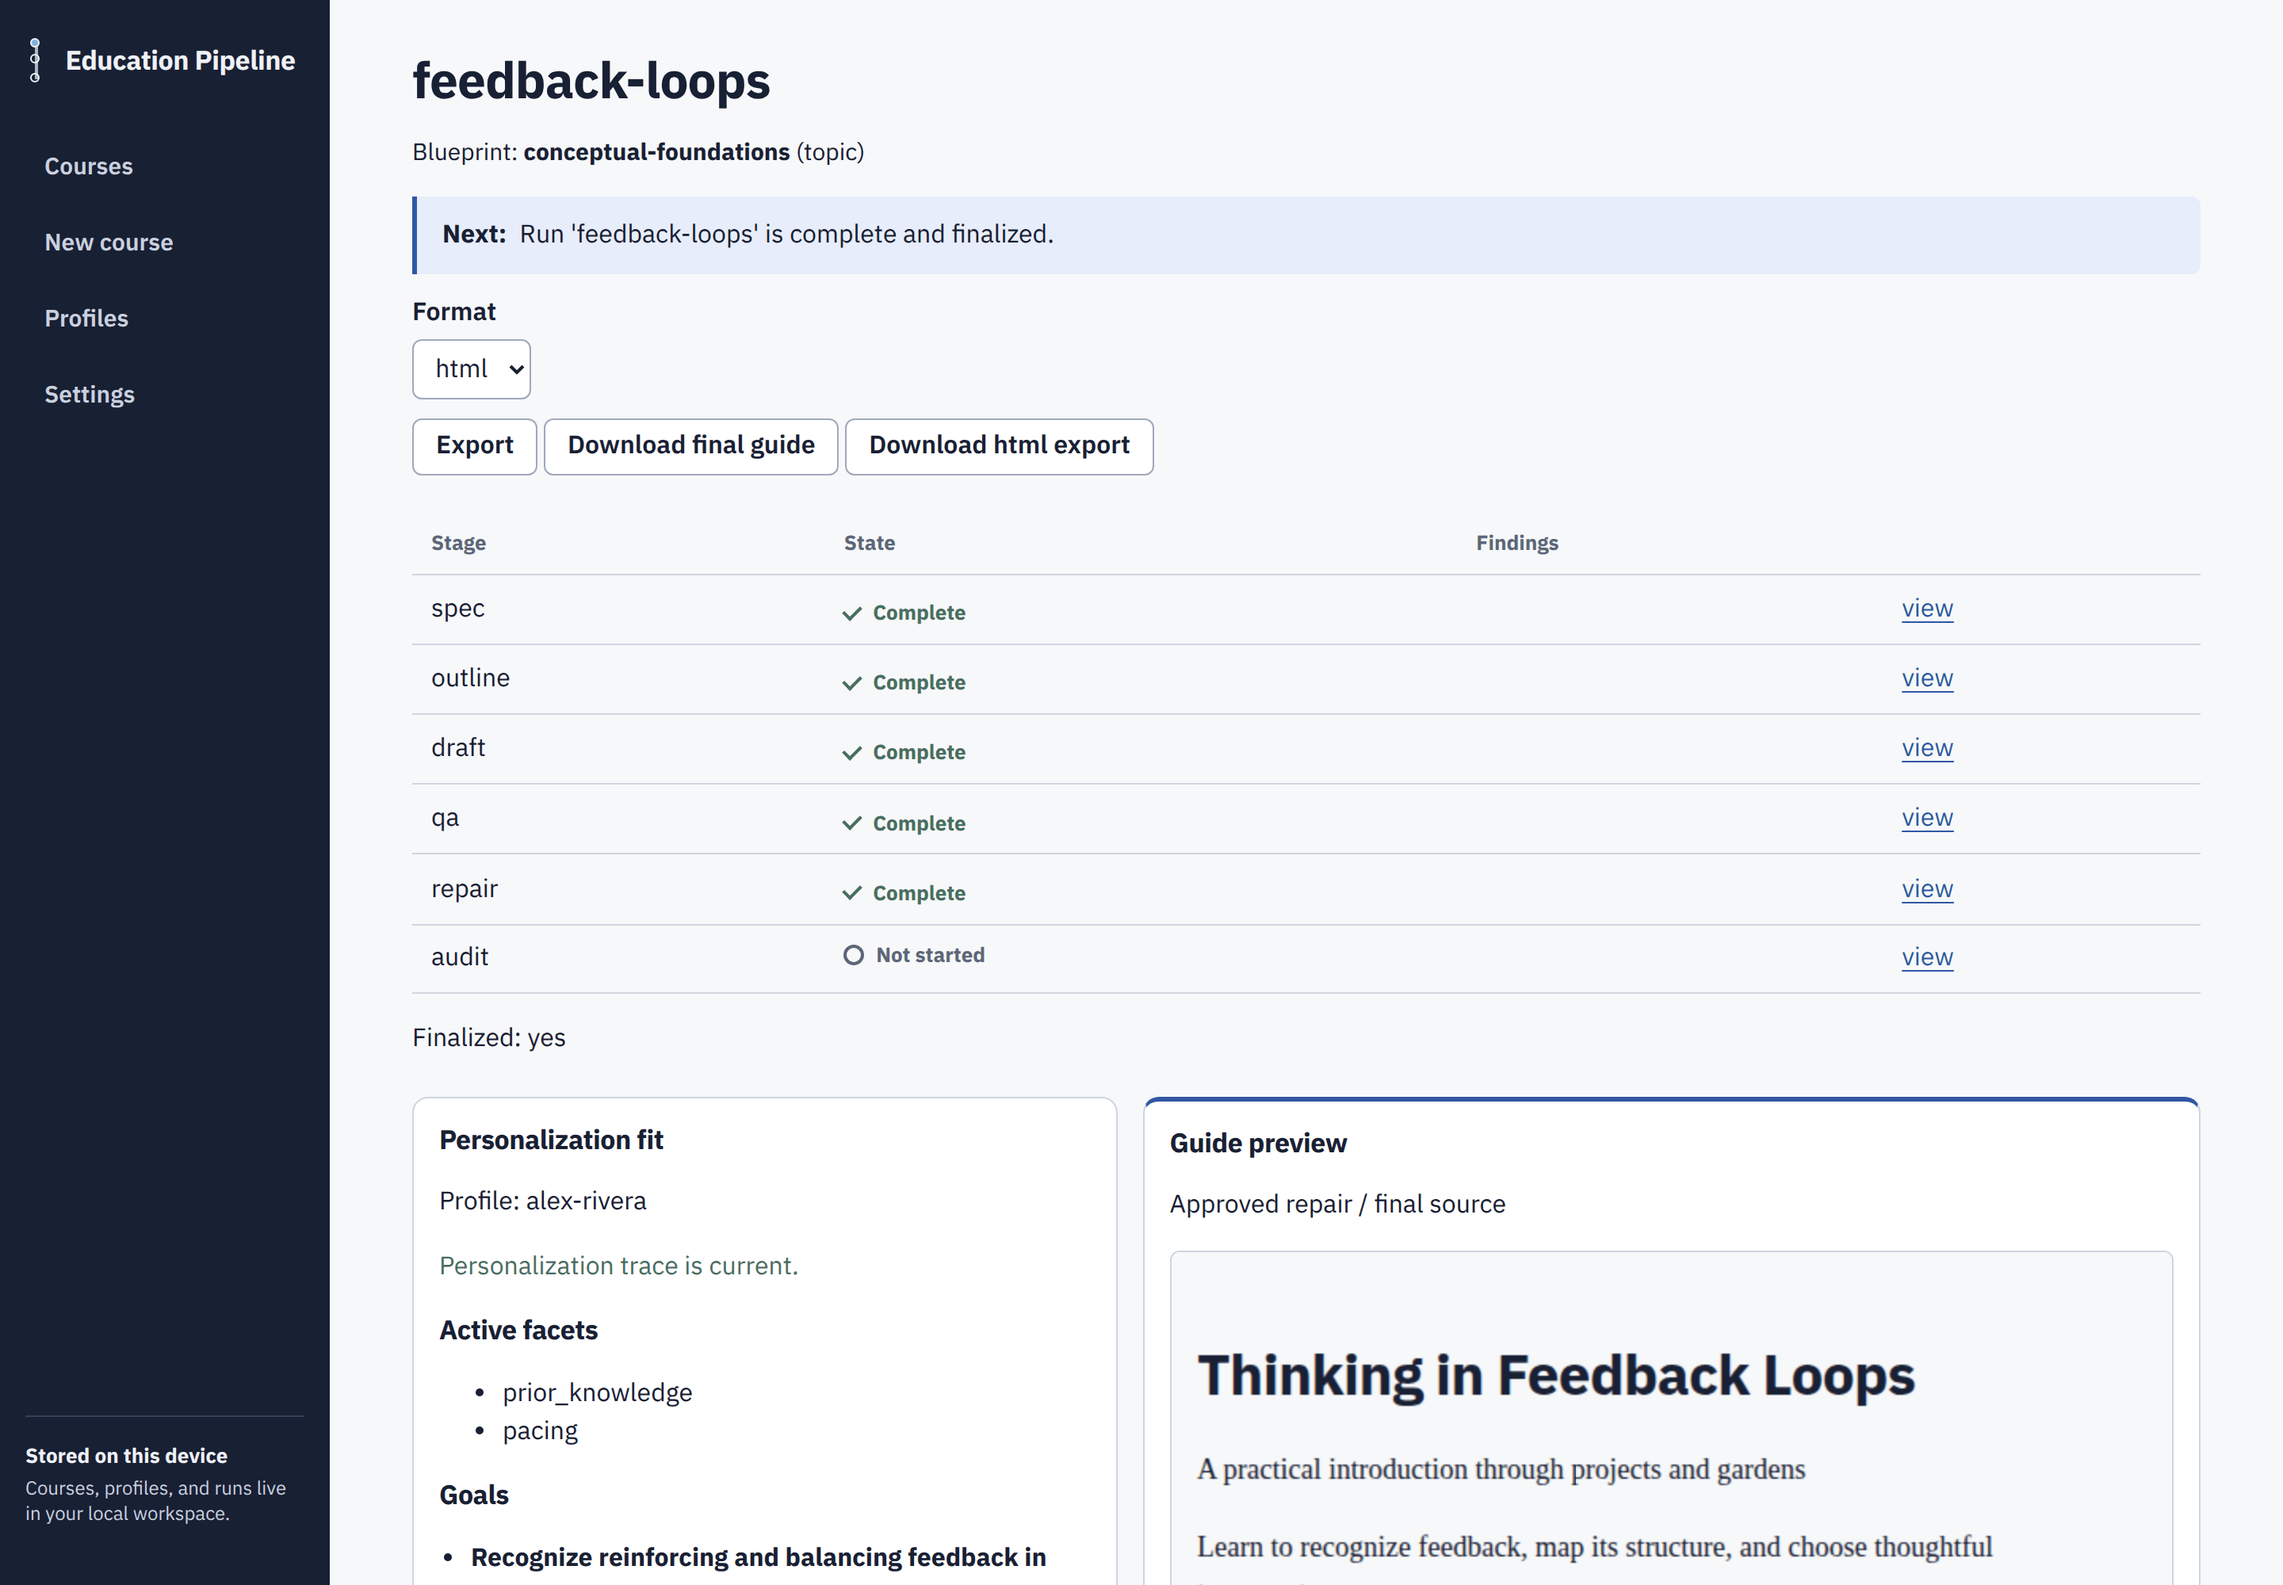
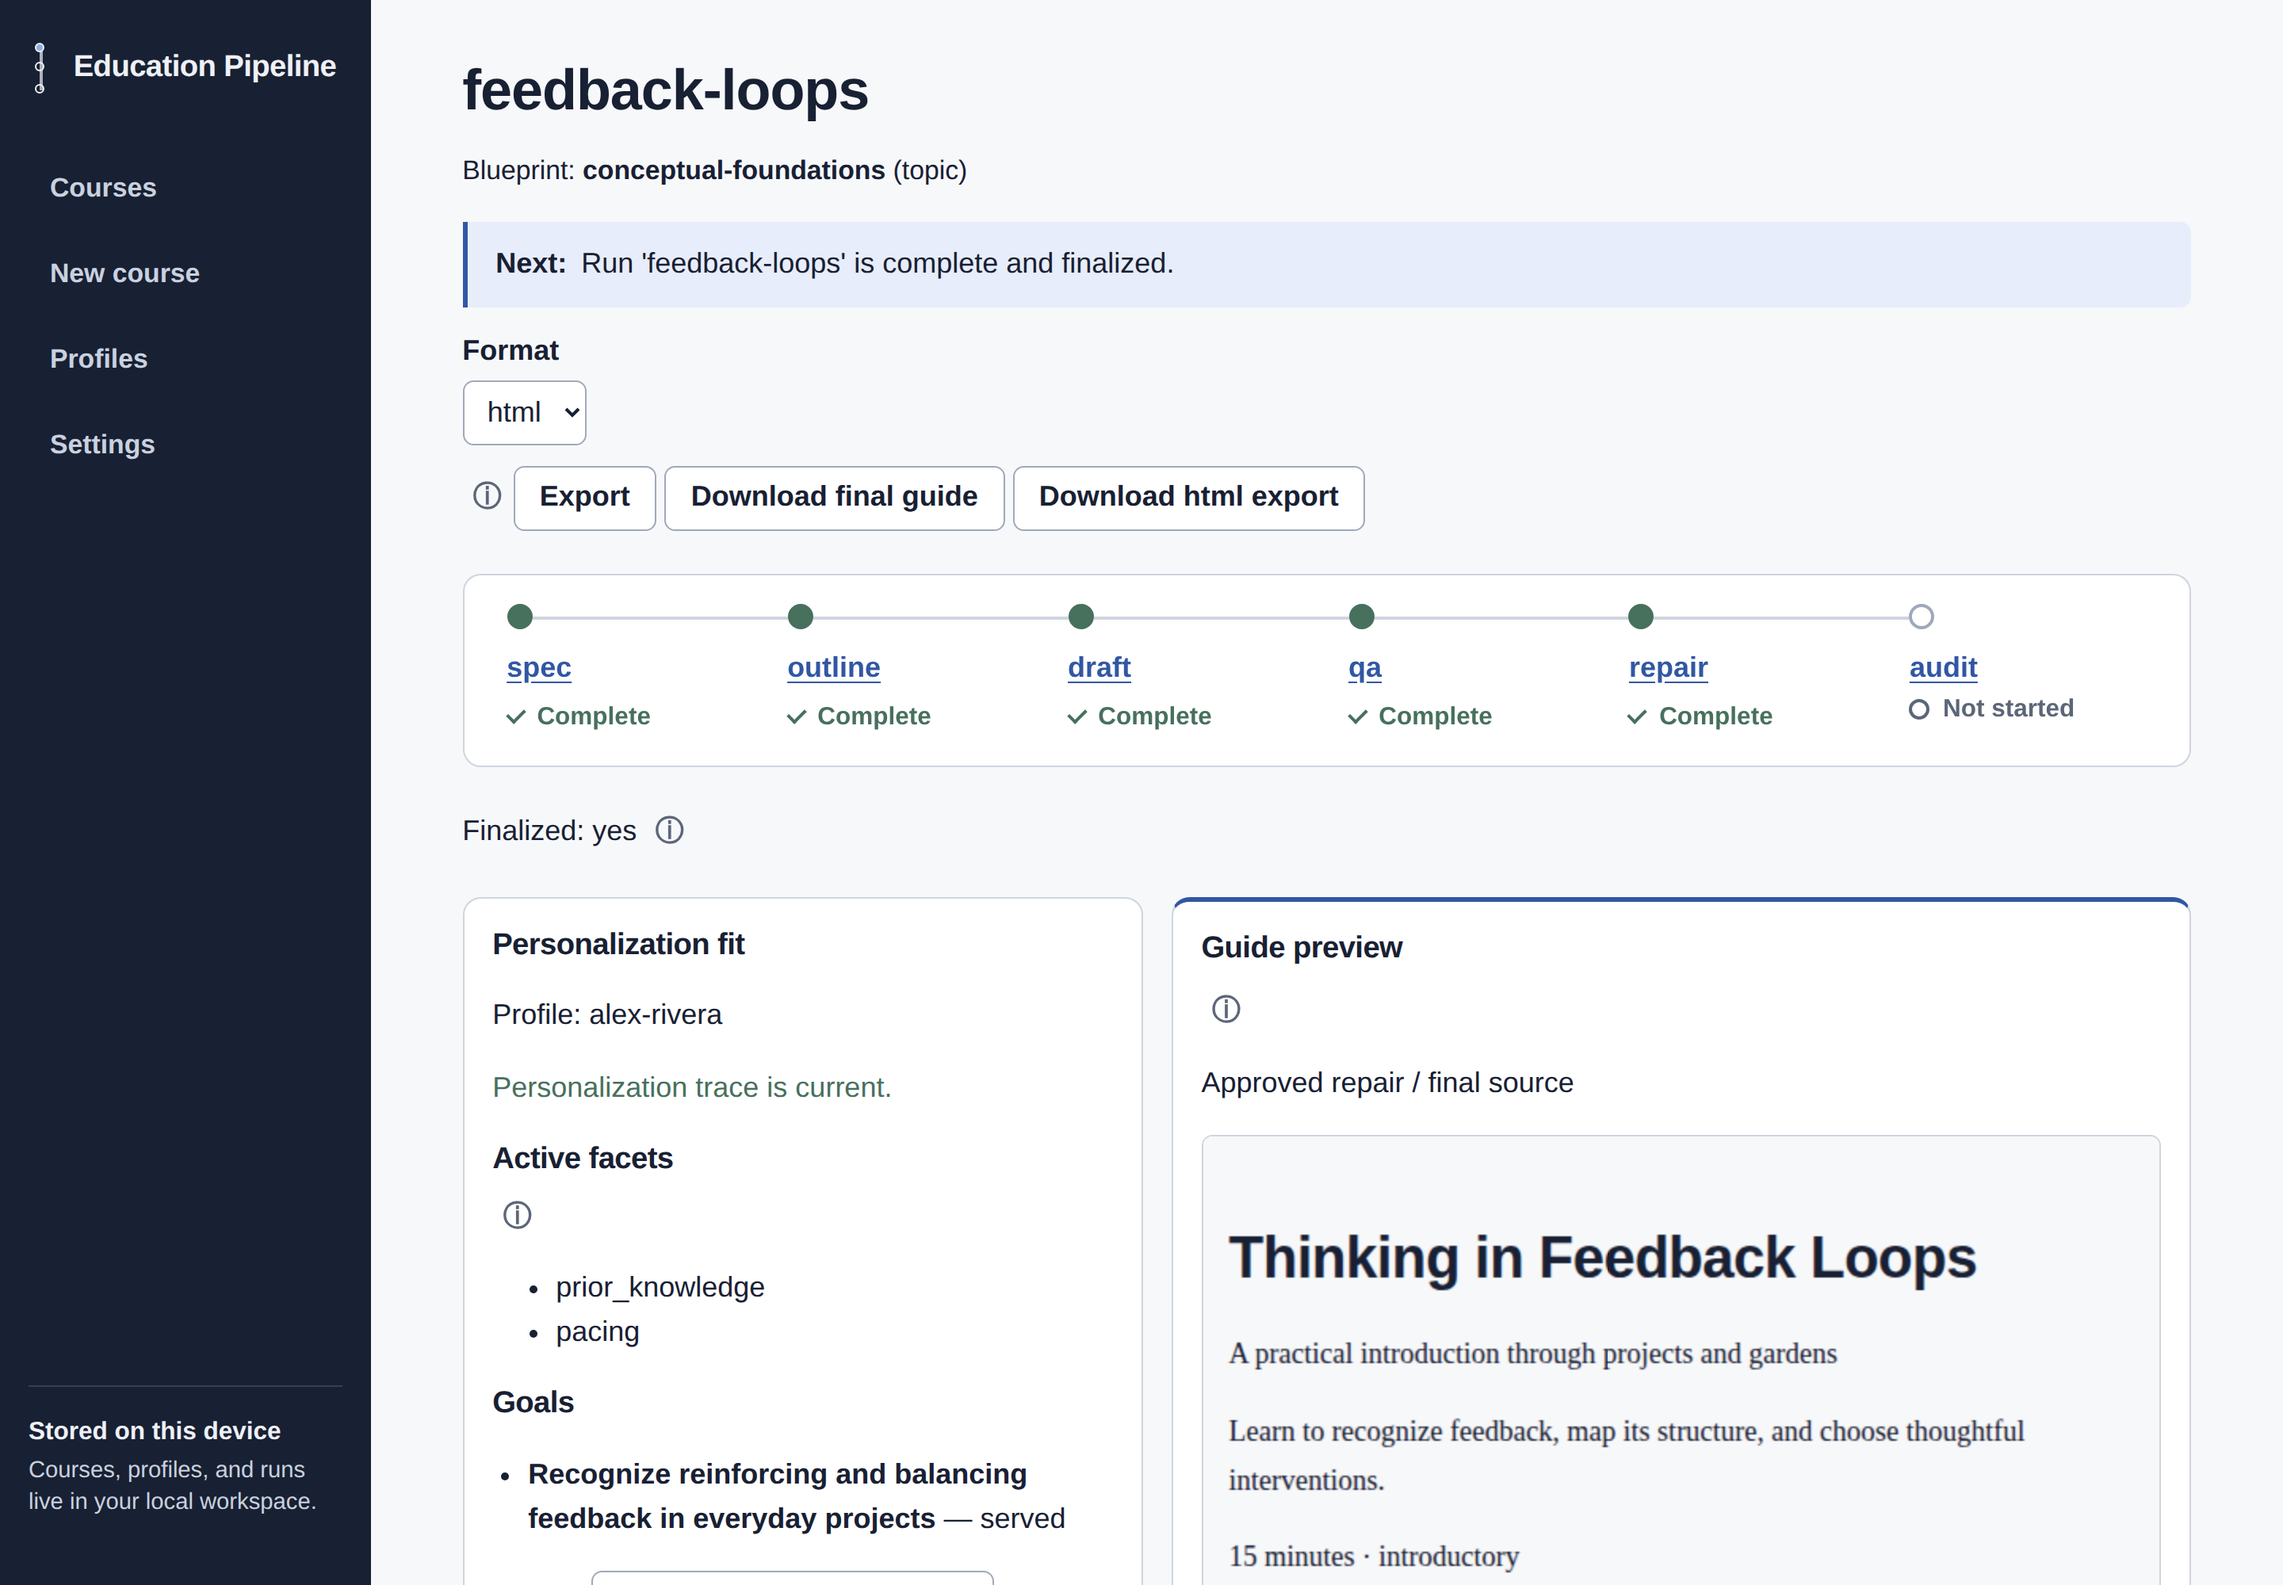
docs: refresh README screenshots for the new run board and stage viewer
Re-shot against a demo workspace built from the feedback-loops example:
the run board now shows the pipeline stepper (mid-run and completed) and
the stage viewer shows the rendered outline response. Also folds
hard-wrapped list continuation lines into their item in the markdown
renderer — the re-shoot surfaced numbered lists breaking apart on
wrapped source lines.

Claude-Session: https://claude.ai/code/session_01JGSEQjkzYnHzF6zX6aGVPA

diff --git a/web/src/lib/markdown.ts b/web/src/lib/markdown.ts
@@ -141,14 +141,24 @@ export function parseMarkdown(text: string): MarkdownBlock[] {
     // HR is checked before lists so "---" never reads as a "-" bullet.
     const itemRe = UNORDERED_ITEM.test(line) ? UNORDERED_ITEM : ORDERED_ITEM.test(line) ? ORDERED_ITEM : null;
     if (itemRe) {
-      const items: InlineNode[][] = [];
+      const items: string[] = [];
       while (i < lines.length && !HR.test(lines[i])) {
         const item = lines[i].match(itemRe);
-        if (!item) break;
-        items.push(parseInline(item[1]));
+        if (item) {
+          items.push(item[1]);
+        } else if (/^\s+\S/.test(lines[i])) {
+          // Indented continuation of the previous item (hard-wrapped source).
+          items[items.length - 1] += ` ${lines[i].trim()}`;
+        } else {
+          break;
+        }
         i += 1;
       }
-      blocks.push({ kind: "list", ordered: itemRe === ORDERED_ITEM, items });
+      blocks.push({
+        kind: "list",
+        ordered: itemRe === ORDERED_ITEM,
+        items: items.map(parseInline),
+      });
       continue;
     }
     if (QUOTE.test(line)) {

diff --git a/web/src/lib/markdown.test.ts b/web/src/lib/markdown.test.ts
@@ -46,6 +46,25 @@ describe("parseMarkdown", () => {
     expect(parseMarkdown("---")).toEqual([{ kind: "hr" }]);
   });
 
+  it("folds indented continuation lines into the previous list item", () => {
+    const blocks = parseMarkdown(
+      "1. **First** (7 min) — starts here\n   and wraps onto this line.\n2. Second item",
+    );
+    expect(blocks).toEqual([
+      {
+        kind: "list",
+        ordered: true,
+        items: [
+          [
+            { kind: "strong", children: [{ kind: "text", text: "First" }] },
+            { kind: "text", text: " (7 min) — starts here and wraps onto this line." },
+          ],
+          [{ kind: "text", text: "Second item" }],
+        ],
+      },
+    ]);
+  });
+
   it("parses blockquotes recursively", () => {
     expect(parseMarkdown("> quoted line")).toEqual([
       {

diff --git a/README.md b/README.md
@@ -35,11 +35,13 @@ language.
 ![New course wizard on the blueprint step](docs/screenshots/new-course.png)
 
 The **run board** drives a course through
-`spec → outline → draft → qa → repair`. Each stage shows its state in
-plain words; the next sound move is always the highlighted action.
-Nothing advances without your approval.
+`spec → outline → draft → qa → repair`, drawn as a pipeline you can read
+at a glance. Each stage shows its state in plain words; the next sound
+move is always the highlighted action. Nothing advances without your
+approval, and provider jobs stay visible from every page with a
+notification when one finishes.
 
-![Run board mid-run with the draft response awaiting review](docs/screenshots/run-board.png)
+![Run board mid-run with the draft response awaiting review on the pipeline](docs/screenshots/run-board.png)
 
 Once a run completes, the run board becomes the quality record: validation
 milestones, personalization fit against the attached learner profile, a
@@ -48,10 +50,11 @@ live guide preview, and one-click export.
 ![Run board for a completed course with export controls and guide preview](docs/screenshots/run-board-complete.png)
 
 The **stage viewer** shows each stage's prompt, response, and approved
-artifact — with compare and diff views, in-browser editing, and provider
-rerun.
+artifact — markdown rendered as readable prose, guide JSON as a
+collapsible tree, with the exact raw bytes one click away — plus compare
+and diff views, in-browser editing, and provider rerun.
 
-![Stage viewer showing an approved outline response](docs/screenshots/stage-viewer.png)
+![Stage viewer showing an outline response rendered as prose](docs/screenshots/stage-viewer.png)
 
 **Settings** holds provider availability and the default per-stage model
 plan: run every stage manually, through Claude Code or Codex, or mix
